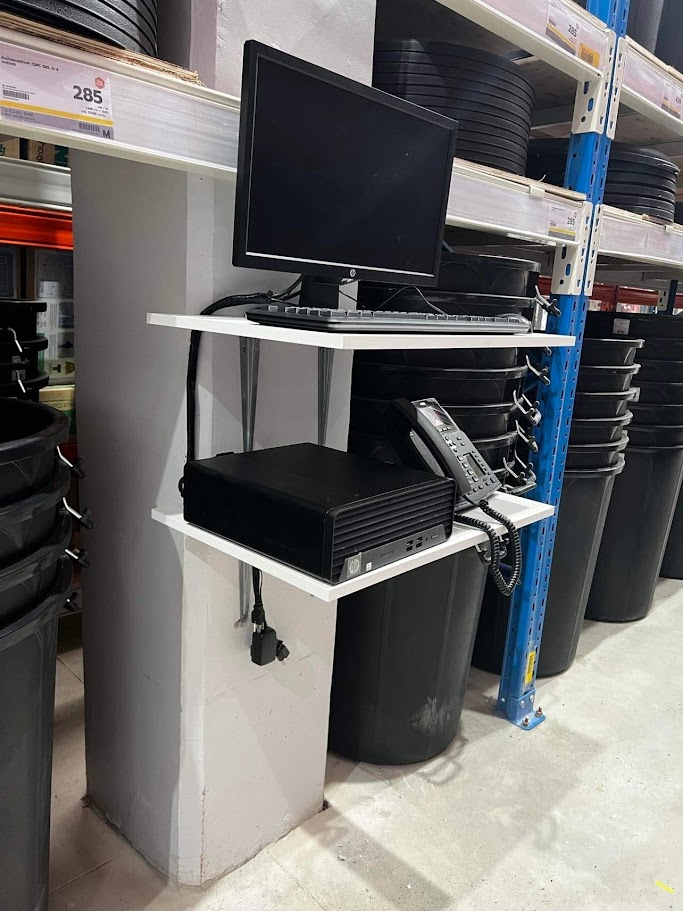
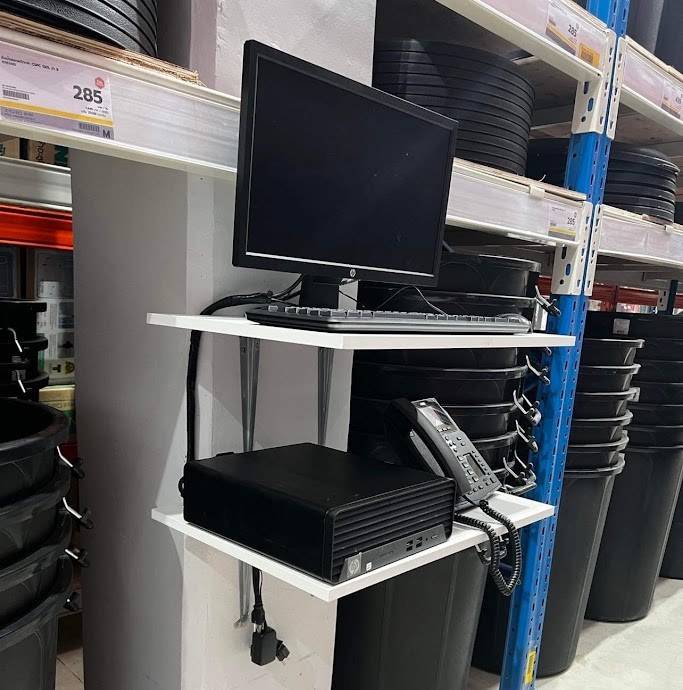
Expand Career Transition Gallery to 15 photos, refresh existing ones
Wire up 4 new photos (s12-s15) and pick up the user's updated versions
of s3, s5 (now .png), s7 (now .jpeg), s8, s10. Fix the s5 path in the
Wi-Fi Infrastructure Upgrade project (both MOCK_DATA and Supabase)
since it shared that image.

diff --git a/index.html b/index.html
@@ -298,13 +298,13 @@
         <img src="./photos/Gallery/s4.jpg" alt="Career transition environment 4" class="w-full h-full object-cover" loading="lazy" />
       </div>
       <div class="w-72 sm:w-80 h-48 sm:h-56 shrink-0 rounded-2xl overflow-hidden bg-white dark:bg-slate-900 border border-accent-500/60 dark:border-accent-400/50 shadow-sm relative transition-transform duration-300 ease-out hover:scale-150 hover:z-10">
-        <img src="./photos/Gallery/s5.jpg" alt="Career transition environment 5" class="w-full h-full object-cover" loading="lazy" />
+        <img src="./photos/Gallery/s5.png" alt="Career transition environment 5" class="w-full h-full object-cover" loading="lazy" />
       </div>
       <div class="w-72 sm:w-80 h-48 sm:h-56 shrink-0 rounded-2xl overflow-hidden bg-white dark:bg-slate-900 border border-accent-500/60 dark:border-accent-400/50 shadow-sm relative transition-transform duration-300 ease-out hover:scale-150 hover:z-10">
         <img src="./photos/Gallery/s6.jpg" alt="Career transition environment 6" class="w-full h-full object-cover" loading="lazy" />
       </div>
       <div class="w-72 sm:w-80 h-48 sm:h-56 shrink-0 rounded-2xl overflow-hidden bg-white dark:bg-slate-900 border border-accent-500/60 dark:border-accent-400/50 shadow-sm relative transition-transform duration-300 ease-out hover:scale-150 hover:z-10">
-        <img src="./photos/Gallery/s7.jpg" alt="Career transition environment 7" class="w-full h-full object-cover" loading="lazy" />
+        <img src="./photos/Gallery/s7.jpeg" alt="Career transition environment 7" class="w-full h-full object-cover" loading="lazy" />
       </div>
       <div class="w-72 sm:w-80 h-48 sm:h-56 shrink-0 rounded-2xl overflow-hidden bg-white dark:bg-slate-900 border border-accent-500/60 dark:border-accent-400/50 shadow-sm relative transition-transform duration-300 ease-out hover:scale-150 hover:z-10">
         <img src="./photos/Gallery/s8.jpg" alt="Career transition environment 8" class="w-full h-full object-cover" loading="lazy" />
@@ -317,6 +317,18 @@
       </div>
       <div class="w-72 sm:w-80 h-48 sm:h-56 shrink-0 rounded-2xl overflow-hidden bg-white dark:bg-slate-900 border border-accent-500/60 dark:border-accent-400/50 shadow-sm relative transition-transform duration-300 ease-out hover:scale-150 hover:z-10">
         <img src="./photos/Gallery/s11.jpg" alt="Career transition environment 11" class="w-full h-full object-cover" loading="lazy" />
+      </div>
+      <div class="w-72 sm:w-80 h-48 sm:h-56 shrink-0 rounded-2xl overflow-hidden bg-white dark:bg-slate-900 border border-accent-500/60 dark:border-accent-400/50 shadow-sm relative transition-transform duration-300 ease-out hover:scale-150 hover:z-10">
+        <img src="./photos/Gallery/s12.png" alt="Career transition environment 12" class="w-full h-full object-cover" loading="lazy" />
+      </div>
+      <div class="w-72 sm:w-80 h-48 sm:h-56 shrink-0 rounded-2xl overflow-hidden bg-white dark:bg-slate-900 border border-accent-500/60 dark:border-accent-400/50 shadow-sm relative transition-transform duration-300 ease-out hover:scale-150 hover:z-10">
+        <img src="./photos/Gallery/s13.jpg" alt="Career transition environment 13" class="w-full h-full object-cover" loading="lazy" />
+      </div>
+      <div class="w-72 sm:w-80 h-48 sm:h-56 shrink-0 rounded-2xl overflow-hidden bg-white dark:bg-slate-900 border border-accent-500/60 dark:border-accent-400/50 shadow-sm relative transition-transform duration-300 ease-out hover:scale-150 hover:z-10">
+        <img src="./photos/Gallery/s14.jpg" alt="Career transition environment 14" class="w-full h-full object-cover" loading="lazy" />
+      </div>
+      <div class="w-72 sm:w-80 h-48 sm:h-56 shrink-0 rounded-2xl overflow-hidden bg-white dark:bg-slate-900 border border-accent-500/60 dark:border-accent-400/50 shadow-sm relative transition-transform duration-300 ease-out hover:scale-150 hover:z-10">
+        <img src="./photos/Gallery/s15.png" alt="Career transition environment 15" class="w-full h-full object-cover" loading="lazy" />
       </div>
       <!-- Duplicate set — lets the auto-scroll/drag wrap seamlessly once past one set-width -->
       <div class="w-72 sm:w-80 h-48 sm:h-56 shrink-0 rounded-2xl overflow-hidden bg-white dark:bg-slate-900 border border-accent-500/60 dark:border-accent-400/50 shadow-sm relative transition-transform duration-300 ease-out hover:scale-150 hover:z-10" aria-hidden="true">
@@ -332,13 +344,13 @@
         <img src="./photos/Gallery/s4.jpg" alt="" class="w-full h-full object-cover" loading="lazy" />
       </div>
       <div class="w-72 sm:w-80 h-48 sm:h-56 shrink-0 rounded-2xl overflow-hidden bg-white dark:bg-slate-900 border border-accent-500/60 dark:border-accent-400/50 shadow-sm relative transition-transform duration-300 ease-out hover:scale-150 hover:z-10" aria-hidden="true">
-        <img src="./photos/Gallery/s5.jpg" alt="" class="w-full h-full object-cover" loading="lazy" />
+        <img src="./photos/Gallery/s5.png" alt="" class="w-full h-full object-cover" loading="lazy" />
       </div>
       <div class="w-72 sm:w-80 h-48 sm:h-56 shrink-0 rounded-2xl overflow-hidden bg-white dark:bg-slate-900 border border-accent-500/60 dark:border-accent-400/50 shadow-sm relative transition-transform duration-300 ease-out hover:scale-150 hover:z-10" aria-hidden="true">
         <img src="./photos/Gallery/s6.jpg" alt="" class="w-full h-full object-cover" loading="lazy" />
       </div>
       <div class="w-72 sm:w-80 h-48 sm:h-56 shrink-0 rounded-2xl overflow-hidden bg-white dark:bg-slate-900 border border-accent-500/60 dark:border-accent-400/50 shadow-sm relative transition-transform duration-300 ease-out hover:scale-150 hover:z-10" aria-hidden="true">
-        <img src="./photos/Gallery/s7.jpg" alt="" class="w-full h-full object-cover" loading="lazy" />
+        <img src="./photos/Gallery/s7.jpeg" alt="" class="w-full h-full object-cover" loading="lazy" />
       </div>
       <div class="w-72 sm:w-80 h-48 sm:h-56 shrink-0 rounded-2xl overflow-hidden bg-white dark:bg-slate-900 border border-accent-500/60 dark:border-accent-400/50 shadow-sm relative transition-transform duration-300 ease-out hover:scale-150 hover:z-10" aria-hidden="true">
         <img src="./photos/Gallery/s8.jpg" alt="" class="w-full h-full object-cover" loading="lazy" />
@@ -351,6 +363,18 @@
       </div>
       <div class="w-72 sm:w-80 h-48 sm:h-56 shrink-0 rounded-2xl overflow-hidden bg-white dark:bg-slate-900 border border-accent-500/60 dark:border-accent-400/50 shadow-sm relative transition-transform duration-300 ease-out hover:scale-150 hover:z-10" aria-hidden="true">
         <img src="./photos/Gallery/s11.jpg" alt="" class="w-full h-full object-cover" loading="lazy" />
+      </div>
+      <div class="w-72 sm:w-80 h-48 sm:h-56 shrink-0 rounded-2xl overflow-hidden bg-white dark:bg-slate-900 border border-accent-500/60 dark:border-accent-400/50 shadow-sm relative transition-transform duration-300 ease-out hover:scale-150 hover:z-10" aria-hidden="true">
+        <img src="./photos/Gallery/s12.png" alt="" class="w-full h-full object-cover" loading="lazy" />
+      </div>
+      <div class="w-72 sm:w-80 h-48 sm:h-56 shrink-0 rounded-2xl overflow-hidden bg-white dark:bg-slate-900 border border-accent-500/60 dark:border-accent-400/50 shadow-sm relative transition-transform duration-300 ease-out hover:scale-150 hover:z-10" aria-hidden="true">
+        <img src="./photos/Gallery/s13.jpg" alt="" class="w-full h-full object-cover" loading="lazy" />
+      </div>
+      <div class="w-72 sm:w-80 h-48 sm:h-56 shrink-0 rounded-2xl overflow-hidden bg-white dark:bg-slate-900 border border-accent-500/60 dark:border-accent-400/50 shadow-sm relative transition-transform duration-300 ease-out hover:scale-150 hover:z-10" aria-hidden="true">
+        <img src="./photos/Gallery/s14.jpg" alt="" class="w-full h-full object-cover" loading="lazy" />
+      </div>
+      <div class="w-72 sm:w-80 h-48 sm:h-56 shrink-0 rounded-2xl overflow-hidden bg-white dark:bg-slate-900 border border-accent-500/60 dark:border-accent-400/50 shadow-sm relative transition-transform duration-300 ease-out hover:scale-150 hover:z-10" aria-hidden="true">
+        <img src="./photos/Gallery/s15.png" alt="" class="w-full h-full object-cover" loading="lazy" />
       </div>
     </div>
   </div>
@@ -771,7 +795,7 @@
         title: 'Wi-Fi Infrastructure Upgrade', category: 'Networking', featured: true, icon: '📡',
         desc: 'Deployed enterprise-grade access points across three floors, improving coverage and eliminating dead zones.',
         tags: ['Access Points', 'Site Survey', 'VLANs', 'Cabling'],
-        images: ['./photos/Gallery/s4.jpg', './photos/Gallery/s5.jpg', './photos/Gallery/s6.jpg'],
+        images: ['./photos/Gallery/s4.jpg', './photos/Gallery/s5.png', './photos/Gallery/s6.jpg'],
       },
       {
         title: 'Active Directory Cleanup', category: 'Administration', featured: false, icon: '🗂',
